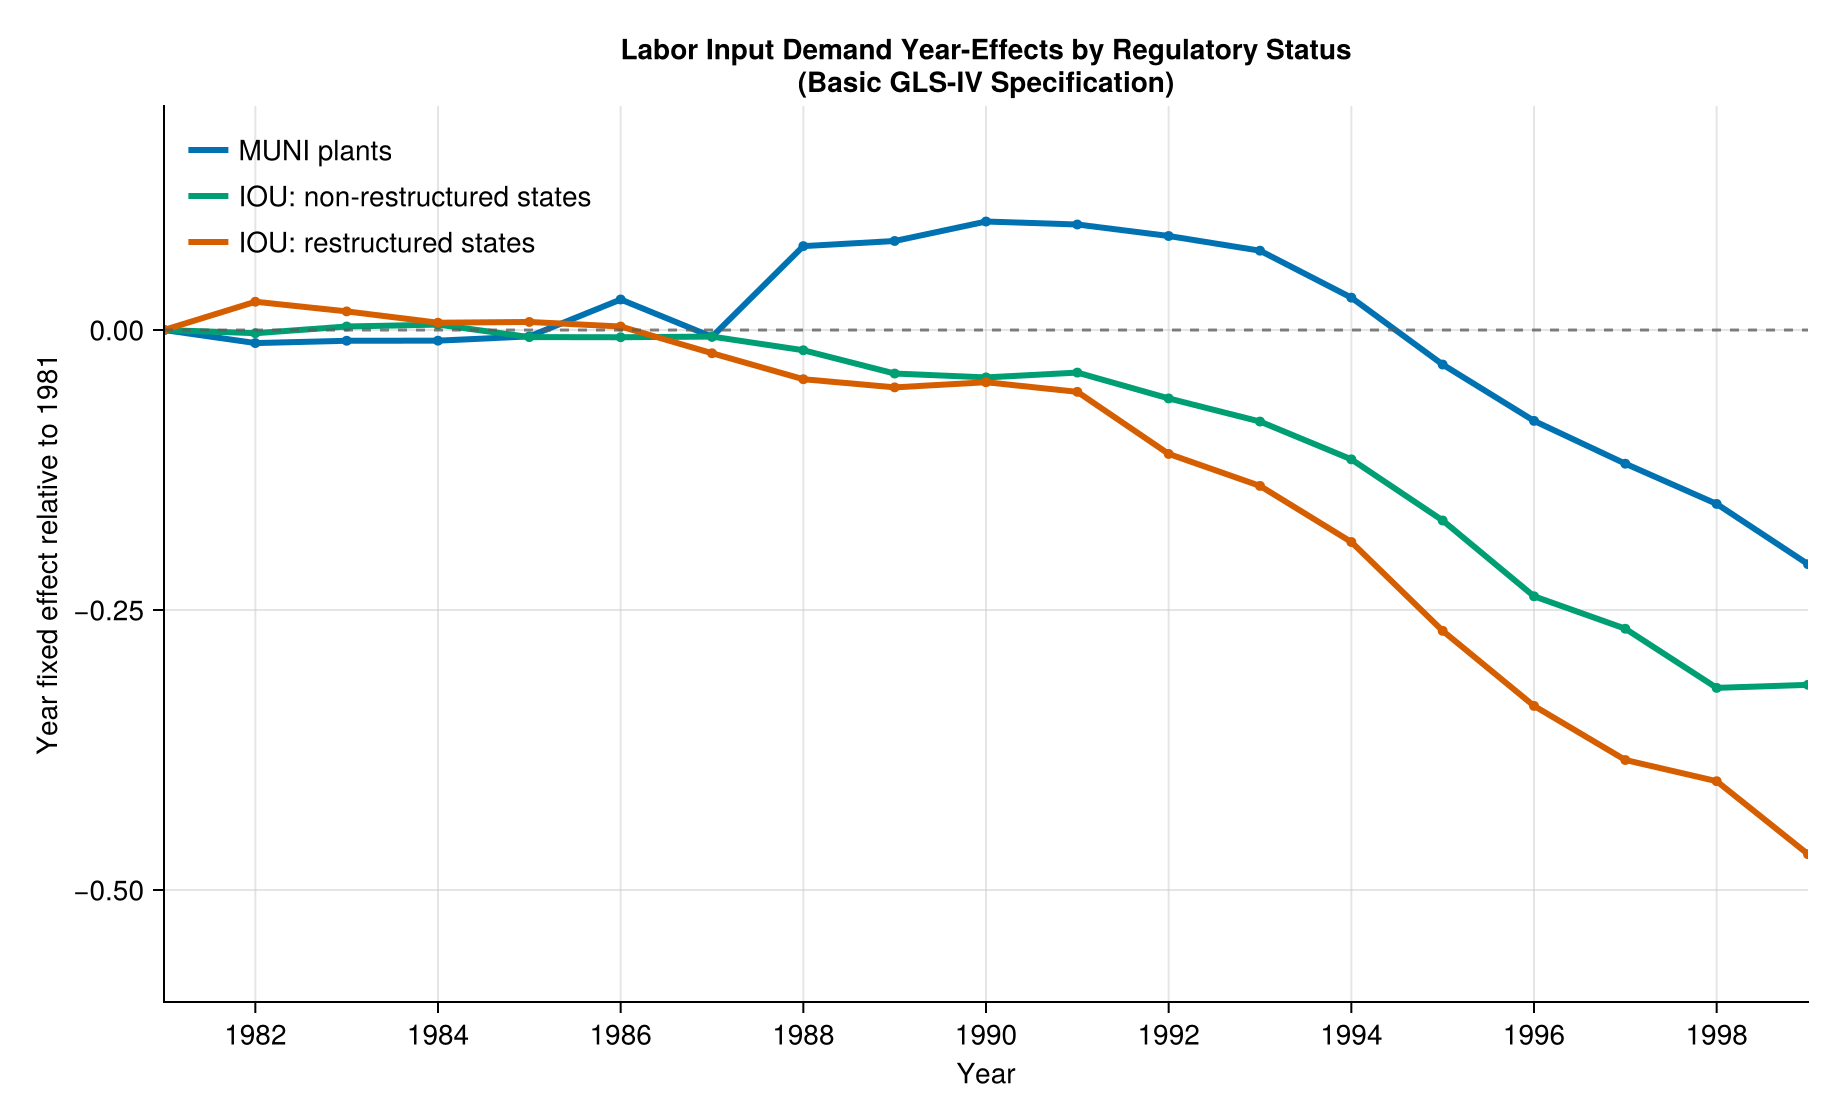
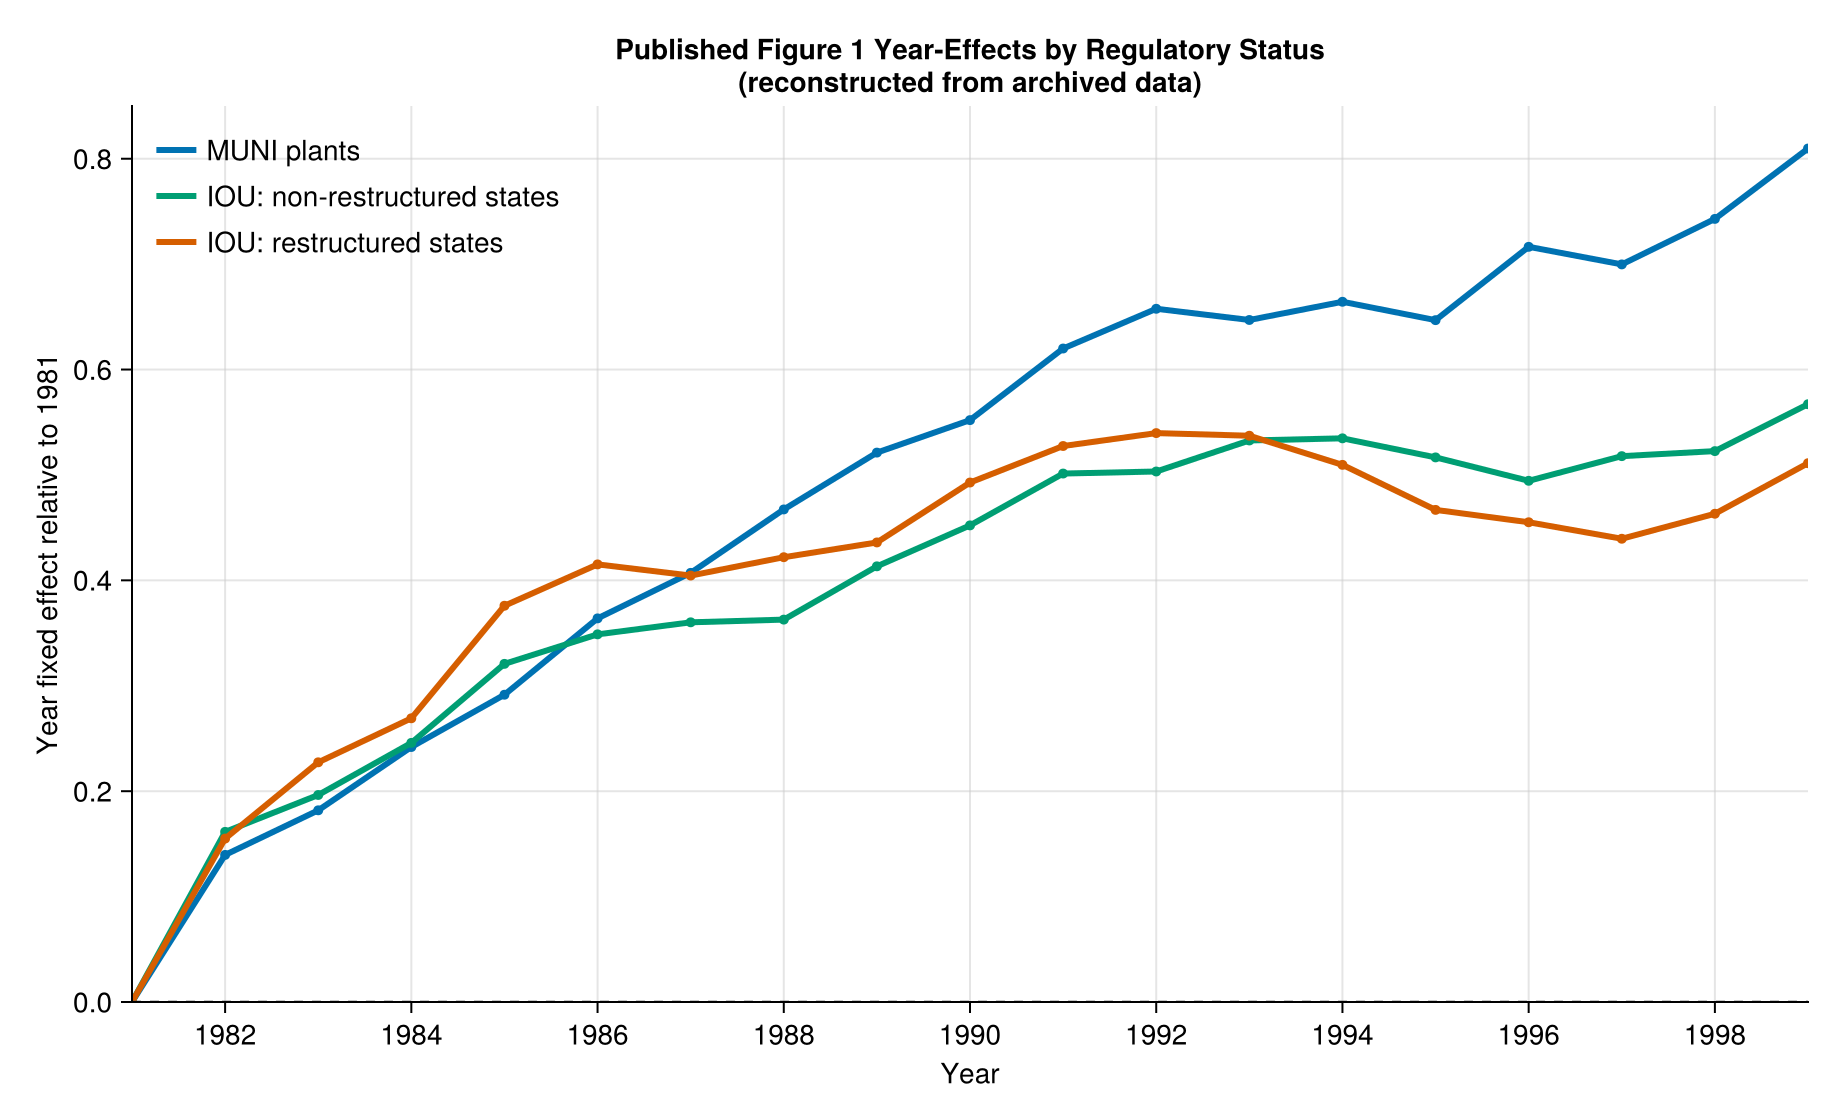
Add table stars and clarify figure reconstruction

diff --git a/tables/table3.md b/tables/table3.md
@@ -2,13 +2,15 @@
 
 | Variable | GLS Basic | GLS-IV Basic | GLS-IV Law Date | GLS-IV Retail Access | GLS-IV Nonutility Generation |
 |---|---:|---:|---:|---:|---:|
-| IOU * Restructured | -0.032<br>(0.014) | -0.031<br>(0.015) |  | -0.031<br>(0.014) |  |
+| IOU * Restructured | -0.032**<br>(0.014) | -0.031**<br>(0.015) |  | -0.031**<br>(0.014) |  |
 | IOU * Law Passed |  |  | -0.013<br>(0.016) |  |  |
 | IOU * Retail Access |  |  |  | -0.031<br>(0.051) |  |
 | IOU * High Nonutility Generation |  |  |  |  | -0.022<br>(0.019) |
-| MUNI * Post 1992 | 0.029<br>(0.012) | 0.032<br>(0.012) | 0.037<br>(0.012) | 0.031<br>(0.012) | 0.029<br>(0.014) |
-| MUNI * Post 1987 | 0.056<br>(0.012) | 0.060<br>(0.013) | 0.061<br>(0.013) | 0.059<br>(0.013) | 0.062<br>(0.013) |
+| MUNI * Post 1992 | 0.029**<br>(0.012) | 0.032***<br>(0.012) | 0.037***<br>(0.012) | 0.031***<br>(0.012) | 0.029**<br>(0.014) |
+| MUNI * Post 1987 | 0.056***<br>(0.012) | 0.060***<br>(0.013) | 0.061***<br>(0.013) | 0.059***<br>(0.013) | 0.062***<br>(0.013) |
 | ln(WAGE) | -0.011<br>(0.013) | -0.012<br>(0.013) | -0.013<br>(0.013) | -0.012<br>(0.013) | -0.013<br>(0.013) |
-| ln(NET MWH) | 0.036<br>(0.005) | 0.068<br>(0.064) | 0.076<br>(0.065) | 0.060<br>(0.065) | 0.078<br>(0.064) |
+| ln(NET MWH) | 0.036***<br>(0.005) | 0.068<br>(0.064) | 0.076<br>(0.065) | 0.060<br>(0.065) | 0.078<br>(0.064) |
 | SCRUBBER | 0.033<br>(0.026) | 0.037<br>(0.025) | 0.040<br>(0.025) | 0.035<br>(0.026) | 0.041<br>(0.025) |
 | rho | 0.75 | 0.72 | 0.71 | 0.72 | 0.71 |
+
+Notes: cluster-robust standard errors are in parentheses. Stars are computed from absolute t-ratios: *** 1 percent, ** 5 percent, * 10 percent. Very small last-digit differences from the printed article can reflect rounding/truncation in the PDF/Stata output.

diff --git a/tables/table4.md b/tables/table4.md
@@ -2,12 +2,14 @@
 
 | Variable | GLS Basic | GLS-IV Basic | GLS-IV Law Date | GLS-IV Retail Access | GLS-IV Nonutility Generation |
 |---|---:|---:|---:|---:|---:|
-| IOU * Restructured | -0.096<br>(0.022) | -0.051<br>(0.026) |  | -0.052<br>(0.025) |  |
+| IOU * Restructured | -0.096***<br>(0.022) | -0.051**<br>(0.026) |  | -0.052**<br>(0.025) |  |
 | IOU * Law Passed |  |  | -0.022<br>(0.027) |  |  |
-| IOU * Retail Access |  |  |  | -0.189<br>(0.063) |  |
+| IOU * Retail Access |  |  |  | -0.189***<br>(0.063) |  |
 | IOU * High Nonutility Generation |  |  |  |  | -0.013<br>(0.029) |
-| MUNI * Post 1992 | 0.057<br>(0.019) | 0.069<br>(0.021) | 0.082<br>(0.022) | 0.068<br>(0.020) | 0.079<br>(0.023) |
-| MUNI * Post 1987 | 0.122<br>(0.020) | 0.109<br>(0.022) | 0.108<br>(0.022) | 0.110<br>(0.021) | 0.108<br>(0.023) |
-| ln(NET MWH) | 0.078<br>(0.011) | 0.417<br>(0.090) | 0.445<br>(0.091) | 0.379<br>(0.091) | 0.454<br>(0.091) |
+| MUNI * Post 1992 | 0.057***<br>(0.019) | 0.069***<br>(0.021) | 0.082***<br>(0.022) | 0.068***<br>(0.020) | 0.079***<br>(0.023) |
+| MUNI * Post 1987 | 0.122***<br>(0.020) | 0.109***<br>(0.022) | 0.108***<br>(0.022) | 0.110***<br>(0.021) | 0.108***<br>(0.023) |
+| ln(NET MWH) | 0.078***<br>(0.011) | 0.417***<br>(0.090) | 0.445***<br>(0.091) | 0.379***<br>(0.091) | 0.454***<br>(0.091) |
 | SCRUBBER | 0.025<br>(0.038) | 0.051<br>(0.050) | 0.055<br>(0.053) | 0.040<br>(0.048) | 0.059<br>(0.053) |
 | rho | 0.39 | 0.33 | 0.34 | 0.33 | 0.34 |
+
+Notes: cluster-robust standard errors are in parentheses. Stars are computed from absolute t-ratios: *** 1 percent, ** 5 percent, * 10 percent. Very small last-digit differences from the printed article can reflect rounding/truncation in the PDF/Stata output.

diff --git a/tables/table5.md b/tables/table5.md
@@ -2,12 +2,14 @@
 
 | Variable | GLS Basic | GLS-IV Basic | GLS-IV Law Date | GLS-IV Retail Access | GLS-IV Nonutility Generation |
 |---|---:|---:|---:|---:|---:|
-| IOU * Restructured | -0.014<br>(0.004) | -0.009<br>(0.006) |  | -0.009<br>(0.006) |  |
+| IOU * Restructured | -0.014***<br>(0.004) | -0.009<br>(0.006) |  | -0.009<br>(0.006) |  |
 | IOU * Law Passed |  |  | 0.005<br>(0.007) |  |  |
 | IOU * Retail Access |  |  |  | 0.007<br>(0.017) |  |
 | IOU * High Nonutility Generation |  |  |  |  | 0.005<br>(0.008) |
 | MUNI * Post 1992 | -0.004<br>(0.005) | -0.005<br>(0.007) | -0.003<br>(0.007) | -0.005<br>(0.007) | -0.001<br>(0.007) |
 | MUNI * Post 1987 | 0.004<br>(0.006) | 0.000<br>(0.009) | 0.000<br>(0.009) | 0.000<br>(0.009) | 0.000<br>(0.009) |
-| ln(NET MWH) | 0.912<br>(0.004) | 0.969<br>(0.034) | 0.979<br>(0.035) | 0.970<br>(0.036) | 0.978<br>(0.034) |
+| ln(NET MWH) | 0.912***<br>(0.004) | 0.969***<br>(0.034) | 0.979***<br>(0.035) | 0.970***<br>(0.036) | 0.978***<br>(0.034) |
 | SCRUBBER | -0.008<br>(0.009) | -0.003<br>(0.010) | -0.001<br>(0.010) | -0.003<br>(0.010) | -0.002<br>(0.009) |
 | rho | -0.09 | 0.44 | 0.44 | 0.44 | 0.44 |
+
+Notes: cluster-robust standard errors are in parentheses. Stars are computed from absolute t-ratios: *** 1 percent, ** 5 percent, * 10 percent. Very small last-digit differences from the printed article can reflect rounding/truncation in the PDF/Stata output.
